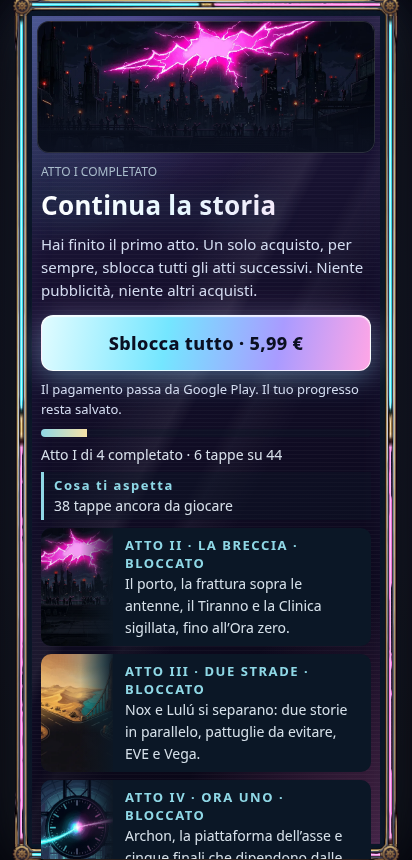
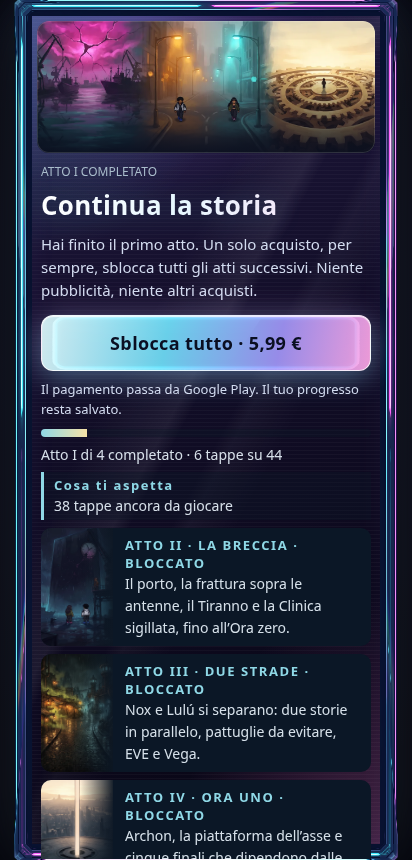
test(r57): add R57 asset integration tests, refresh evidence, and document D97

diff --git a/docs/gold/DECISIONI.md b/docs/gold/DECISIONI.md
@@ -116,3 +116,5 @@ Le tre scelte condizionali restano tracciate nel piano V10.2 e nella matrice; qu
 | D93 | Revisione R52 della release Play (ramo `fix/play-store-release-r51`, PR #22): tasto Indietro sulle schermate della storia, una sola lingua per gioco e shell, salvataggi per il ponte nativo, CI sul pacchetto vero, audio tutto a 48 kHz | Parole dell’autore (18 novembre 2026): «Applica le seguenti modifiche e applica miglioramenti sensati a tua scelta di qualità tripla A … NON unire la PR. NON toccare chiavi/keystore, applicationId (jaguarZcreatorZ13.app), versionCode, configurazione di firma.» [FATTO] (1) **Indietro** (`game/back-route.mjs`, `window.__chronosBack`): kit di Tessa, scelta, bussa e scelta della città non fanno nulla (sono scelte della storia, ma il tasto è «gestito», quindi niente pausa né «Tornare al telefono?»); «tieni premuto» annulla la pressione; l’apertura salta l’intro se il pulsante «salta» è visibile, altrimenti non fa nulla. (2) **Lingua**: una catena sola, impostazioni salvate → lingua scelta dalla shell (`ChronosNative.lang()`) → `navigator.language` → inglese; italiano solo per `it*`; il bootstrap non ricade più sull’italiano. (3) **Salvataggi**: `GET /__sync` con i dati nell’URL è sostituito da `NativeBridge` (`addJavascriptInterface`, tre metodi `@JavascriptInterface`, chiavi in allow-list, tetto 8 MiB per valore); il ripristino al riavvio riempie lo storage prima che il gioco lo legga. Tre test che vietavano `addJavascriptInterface` ora verificano «un solo ponte, niente Billing, niente file né rete»: è una modifica di regola dichiarata, non un aggiramento. (4) **CI** `android-smoke-build.yml` sul pacchetto `jaguarZcreatorZ13.app`. (5) **Audio**: 91 file Ogg Vorbis a 32 o 44,1 kHz portati a 48 kHz (`tools/resample_audio_r52.py`, soxr, stessi nome, formato e canali; qualità scelta in modo che il bitrate resti vicino); RMS entro 0,3 dB, loudness entro 0,3 dB sui pezzi da 3 s in su, ruggito −15,9 → −15,9 LUFS; durata dichiarata dal contenitore identica. I file si riscrivono sul posto, in contrasto con «mai riscritto sul posto» di `audio-originals`: come nel c4ac690 sono stati aggiornati `FILE_INVENTORY.json` (con `resampled_r52` e l’hash di prima) e i registri; i vecchi hash restano nei rapporti storici (`docs/evidence/v10.2`, `assets/production/v10.2`). **Limite dichiarato:** nessuna persona ha ascoltato i file ricampionati, il ponte Java non è stato provato su un WebView vero (solo con uno stub in Chromium e compilato con `build_apk.sh`), nessun telefono. `COMMERCIAL_RELEASE = BLOCKED`: playtest umani = 0. |
 | D94 | R53 sul ramo `fix/play-store-release-r51`, PR #22: coerenza di combattimento e narrativa (`ad4685b`), e ripristino del package di debug | Commit `ad4685b` (18 novembre 2026): typo e aggancio al pavimento dei percorsi stealth; `foeHitHalfW` e `blade_dash` sul tratto per i boss larghi; Sonic Nova a 190 px; allineamento di carica, guida, sonar e auto di gara; ritentativo del `sync` nativo; timer legati a `runId`; `driveCleared` passa da `afterCleared`; POV di `app_breach` su Nox; `hpBonus` accumulato; malus `eve_kept` sul finale; calibratore di Vega su «line» e «finale»; Ines nel codex dopo il contagio; pronomi, epilogo e battute IT/EN allineati. Approvazione dell’autore (19 novembre 2026): ripristinare l’`applicationId` di debug `com.cityadventure.pizzaprotocol.debug` come prima della PR, senza toccare l’identità Play, `tools/build_play_aab.sh`, la firma o le chiavi, e senza unire la PR. [FATTO] Il manifest di origine è di nuovo `com.cityadventure.pizzaprotocol.debug`; le classi Java restano in `jaguarZcreatorZ13.app` e l’activity è indicata col nome completo, così il build di debug compila e si avvia senza rinominare i sorgenti che l’AAB Play già usa. La CI di fumo e il verificatore di recupero avviano `com.cityadventure.pizzaprotocol.debug/jaguarZcreatorZ13.app.MainActivity`. L’identità Play resta quella forzata da `tools/build_play_aab.sh` (`jaguarZcreatorZ13.app`, `versionCode` 4, `versionName` 1.0.0, non `debuggable`). `COMMERCIAL_RELEASE = BLOCKED`: playtest umani = 0; ponte, Indietro e backup non provati su un telefono.
 | D95 | App gratuita accanto a quella a pagamento: Atto I libero, un solo acquisto in-app (`unlock_full_game`, 5,99 €) sblocca gli altri atti; l’app a pagamento resta com’è | Parole dell’autore (19 novembre 2026): «la facciamo, ti sto dicendo di clonarla, lasciare questa a pagamento e mettere quella gratuita, trovi il primo capitolo e poi gli altri a pagamento.» Scelte confermate: un solo acquisto sblocca tutti i capitoli, prezzo di sblocco 5,99 €, nuovo `applicationId` `jaguarZcreatorZ13.app.free`. **Limiti.** Non cambia l’app Play `jaguarZcreatorZ13.app` (5,99 €, `versionCode` 4, firma, `tools/build_play_aab.sh`). Per la regola 7 di `CLAUDE.md` («niente meccanismi F2P aggressivi») vale qui: un solo acquisto, per sempre, niente pubblicità, niente timer finti né scarsità finta, niente altri acquisti. «Capitolo» = **Atto** del gioco (Atto I libero; Atti II, III e IV bloccati). Il nome dell’app gratuita è lo stesso di quella a pagamento: nessuna scritta «Free» o «Gratis» nelle stringhe visibili (richiesta dell’autore, 19 novembre 2026). Il prezzo si imposta in Play Console, non nel codice. Dettagli in `docs/gold/STATO.md` (R54) e `docs/gold/PLAY.md`. |
+| D96 | Rifinitura dell’Atto I e della conversione nella variante gratuita (R56): primo sparo più rapido, buio progressivo in Blackout, canale unico per i messaggi, teaser e schermata di sblocco con arte | Fatto (R56, ramo `feat/act1-polish-r56` da `feat/free-variant-iap` `8d9cf0c`): l’apertura di `blackout` passa a barks radio in movimento (tempo al primo sparo modellato da 102,8 s a 86,6 s); schede tappa con posizione nell’atto (`Atto N · Tappa x di y`, IT/EN); buio di `blackout` che si dirada con i relè (0,66 → 0,14); color grade per atto; toast sotto il bark visibile; scossa deterministica a somma di seni con tetto (0 con `reduced`); nell’edizione gratuita l’ultima battuta di Veyra sulla guida lascia spazio al solo gancio della breccia, con arte sul teaser e pulsante di acquisto dentro la prima schermata (`tests/act1-polish-r56.test.mjs`, `tools/verify_act1_polish_r56.cjs`). |
+| D97 | Integrazione degli asset approvati R57 (`handoff/r57/`) sulla variante gratuita: 50 file grafici (A1–A9) e 15 file audio Ogg Vorbis 48 kHz cablati per tappa/hub, senza firmare né pubblicare | Mandato R57 (20 novembre 2026): integrare su `feat/assets-r57-free` (a partire dalla linea gratuita con R56 e `assets/r57-handoff`) i 50 asset grafici e i 15 file audio d’ambiente approvati da Loris in `handoff/r57/`. [FATTO] (1) **Grafica:** A1 `assets/source/store/store_feature_1024x500_notitle.png` fuori dal bundle; A2 `game/art/atti/teaser_breccia_9x16.webp` su `#teaser-art`; A3 `game/art/atti/unlock_hero_1200x540.webp` su `.store-hero`; A4 18 ritratti 512×512 in `game/art/v10/` con alias `'TESSA':'ptessa'` ed espressioni `tense`/`warm` automatiche per Nox, Lulú e Veyra; A5 3 livelli parallax strada (`road_layer_mid_a2`, `road_layer_near_a2`, `road_layer_mid_a3`) caricati solo nelle guide degli Atti II–III, disegnati sotto ostacoli/portali/auto e spenti con `settings.reduced`; A6 schede atto 16:9 (`atto_1.webp` pulito) e 9:16 (`atto_{1..4}_9x16.webp` in `@media (orientation: portrait)`), con scrim centrale rafforzato su `#card.a3`; A8 kit UI olografico (`frame_menu.webp` lossless + 9 PNG per pulsanti, barra salute e 6 icone comando); A9 8 sprite sheet `nox_*` e `lulu_*` con rim-light in `game/art/v05/`. (2) **Audio per tappa/hub:** 12 loop Ogg 48 kHz in `game/audio/chrono/` collegati per `step.id` (`STAGE_AMBIENCE`), `hub.id` (`HUB_AMBIENCE`), `playScene` (`home`, `app_port`, `app_archive`) e guida `escape` (`act1_escape_drive`), più 3 one-shot dell’Atto I (`act1_thunder_distant`, `act1_relay_spark`, `act1_crane_groan`); rimosso `ambience:'port'` da `FOOT.exp_chalk_marks` e azzerata l’ambience in `startCollapse()`. (3) **Misure e limiti:** `app.js` impacchettato **418 648 B** (< 458 752 B), 421 risorse locali, p95 < 16 ms su 20/20 scenari (`verify_performance_v09.cjs` `quick`; `tunnel` con parallax A5 a 1,4–2,0 ms a CPU 1× e 9,9 ms a CPU 4×). Nessuna modifica a `applicationId`, `versionCode`, firma o script di build; nessun AAB firmato prodotto qui; qualità all’ascolto su telefono reale non verificabile in headless (`COMMERCIAL_RELEASE = BLOCKED`). |

diff --git a/docs/gold/STATO.md b/docs/gold/STATO.md
@@ -1,3 +1,35 @@
+## R57 — Integrazione asset approvati: grafica (A1–A9) e audio d’ambiente per tappa (D97; 20 novembre 2026)
+
+- **Ramo e PR.** `feat/assets-r57-free`, basato sulla linea della variante gratuita (`feat/act1-polish-r56`, a sua volta da `feat/free-variant-iap` `8d9cf0c`) con merge di `assets/r57-handoff` (`bf83384`), aperto verso `ccr-022499ad-zq9iu5` (non unito, non firmato, non pubblicato).
+- **Variante gratuita intatta.** `applicationId` `jaguarZcreatorZ13.app.free` (`versionCode` 1), Atto I gratuito, un solo acquisto in-app `unlock_full_game` (5,99 €), nessuna stringa visibile con «Free» o «Gratis», nessuna modifica a chiavi, keystore, firma o script di build Play (`tools/build_play_aab.sh`, `tools/build_aab.sh`, `tools/build_free_aab.sh`).
+- **[FATTO] 50 asset grafici integrati (`handoff/r57/assets/graphics/`):**
+  - **A1 (Store Play):** `assets/source/store/store_feature_1024x500_notitle.png` (1024×500, senza testo, fuori dal bundle APK/AAB).
+  - **A2 (Teaser fine Atto I):** `game/art/atti/teaser_breccia_9x16.webp` (1080×1920) collegato a `#teaser-art` in `game/style.css`.
+  - **A3 (Hero schermata di sblocco):** `game/art/atti/unlock_hero_1200x540.webp` (1200×540) collegato a `.store-hero` in `game/style.css`; `#store-buy` resta nella prima schermata (`bottom: 370,6 px <= 860 px`).
+  - **A4 (18 ritratti 512×512 in `game/art/v10/`):** `portrait_nox_{neutral,tense,warm}.png`, `portrait_lulu_{neutral,tense,warm}.png`, `portrait_veyra.png`, `portrait_veyra_{tense,warm}.png`, `portrait_kairn.png`, `portrait_morrow.png`, `portrait_{rook,eve,vega,mira,tessa,dario,ines}_neutral.png`. Collegati in `game/style.css` (`.portrait.p0`, `.p1`, `.p2`, `.pveyra`, `.prook`, `.pvega`, `.pkairn`, `.pmorrow`, `.pmira`, `.ptessa`, `.pdario`, `.pines`, varianti `-tense`/`-warm`, `#opening-nox`, `#opening-lulu`) e in `game/runtime.mjs` (`PORTRAIT_ALIAS` con `'TESSA':'ptessa'` e `portraitMood` automatico `tense`/`warm` per Nox, Lulú e Veyra).
+  - **A5 (3 livelli parallax strada in `game/art/v10/`):** `road_layer_mid_a2.png`, `road_layer_near_a2.png` (Atto II) e `road_layer_mid_a3.png` (Atto III). Caricati solo nelle tappe `drive` degli Atti II–III in `startDrive()`, disegnati in `drawDriving()` sopra l’asfalto e sotto ostacoli/portali/auto (`.6 * d.distance` e `1.4 * d.distance`), disattivati con `settings.reduced`.
+  - **A6 (8 schede atto in `game/art/atti/`):** `atto_1.webp` (16:9 pulito senza simbolo nell’angolo) + `atto_{1,2,3,4}_9x16.webp` (1080×1920 per `@media (orientation: portrait)` su `#card.a1..a4`; `atto_2..4.webp` 16:9 mantenuti per `@media (orientation: landscape)` e ` .store-act-art`). Scrim centrale di `#card.a3` rafforzato (`#04070cf5 0, #04070cde 52%, #04070c99 100%`) per garantire contrasto ≥ 4,5:1 sopra il bagliore ciano centrale.
+  - **A8 (10 file UI kit olografico in `game/art/ui/`):** `frame_menu.webp` (derivato lossless 512×512 da `a8_frame_holographic_512.png`), `button_primary.png`, `button_secondary.png`, `healthbar_shell.png`, `icon_{shoot,dodge,pulse,duo,heal,bag}.png` collegati in `game/style.css` con testi e badge HTML sopra l’arte.
+  - **A9 (8 sprite sheet rim-light in `game/art/v05/`):** `nox_{walk,gun,actions,magic}.png` e `lulu_{walk,gun,actions,magic}.png` (stesse dimensioni e griglie di `sheet-layout.mjs`, zero modifiche al codice di animazione).
+- **[FATTO] 15 file audio Ogg Vorbis 48 kHz integrati per tappa/hub (`game/audio/chrono/`):**
+  - **12 loop d’ambiente (`STAGE_AMBIENCE` e `HUB_AMBIENCE` in `game/runtime.mjs`):** `act1_blackout_cantiere` (`blackout`, `yard`), `act1_docks_veyra` (`docks_veyra`, hub `ash_docks`), `act1_moon_refuge` (scena `home`, hub `moon`), `act1_escape_drive` (guida `escape`), `act2_clinic_contagion` (`app_clinic`, `contagion`, hub `clinic_ward`), `act2_port_antenne` (scena `app_port`, `port`, hub `antenna_port`), `act2_cathedral_quarter` (`zero`, hub `cathedral`), `act3_forge` (`below`, `forge`), `act3_toxic_bazaar` (`toxic_mid`, hub `toxic`), `act3_eve_archive` (scena `app_archive`, `archive`, hub `deep_archive`), `act3_vega_sky_rail` (`vega`, hub `sky_rail`), `act4_axis_wind` (`app_axis`, `ascent`, `finale`, hub `axis_crown`).
+  - **3 one-shot Atto I (`ACT1_ONESHOTS`):** `act1_thunder_distant` (`blackout`, `yard`), `act1_relay_spark` (`blackout`), `act1_crane_groan` (`docks_veyra`, hub `ash_docks`).
+  - **Pulizia:** rimosso `ambience:'port'` da `FOOT.exp_chalk_marks` in `game/missions.mjs` (usa il default per kind: `chrono_port_rain`); aggiunto `audioDirector.setAmbience(null)` in `startCollapse()` prima del cambio di modalità.
+- **[FATTO] Bundler Android e allowlist WebView (`tools/prepare_android_assets.py`, `AssetRoutes.java`).** Tutte le nuove risorse copiate con nomi univoci dopo il flatten e autorizzate in `AssetRoutes.java`.
+- **[MISURATO] Prove e dimensioni:**
+  - `python3 tools/prepare_android_assets.py`: `index.html` **18 555 B**, `app.js` **418 648 B** (sotto la guardia di 458 752 B e il limite di 524 288 B, margine **40 104 B**), `world.js` **267 009 B**, `en.js` **204 236 B**, **421 risorse locali**.
+  - Test unitari: `tests/assets-r57.test.mjs` (5 subtest dedicati R57), `tests/act1-polish-r56.test.mjs` (9/9), `tests/free-variant-r55.test.mjs` (16/16), `tests/argon-giro3.test.mjs`, `tests/argon-ui.test.mjs`, `tests/bundle-weight.test.mjs`, `tests/fault-guards.test.mjs`: tutti **PASS** (655/657 nella suite completa; i soli 2 test non eseguiti nel container locale sono i 2 sottotest Python `PIL`/`numpy` di `tests/tooling-syntax.test.mjs`). `npm run lint` PASS.
+  - Verifiche browser Playwright (`tools/verify_act1_polish_r56.cjs` 10/10 PASS, `tools/verify_free_variant_r55.cjs` 18/18 PASS, verifica R57 412×860 verticale e 860×412 orizzontale PASS, 0 errori console, 0 richieste 404).
+  - Prestazioni (`tools/verify_performance_v09.cjs` `quick`, 20 scenari su 4 risoluzioni): **20/20 PASS** con p95 < 16 ms (`below` 4,8–6,9 ms, `archive` 3,4–5,9 ms, `ascent` 2,0–2,8 ms, `finale` 2,1–5,6 ms, `tunnel` con parallax A5 1,4–2,0 ms a CPU 1× e 9,9 ms a CPU 4×).
+- **Piano di porting sull’app a pagamento (`jaguarZcreatorZ13.app`):** cherry-pick dei commit R57 (stessi path sotto `game/`, `tools/prepare_android_assets.py`, `AssetRoutes.java`, `tests/`) sul ramo dell’edizione a pagamento senza toccare `applicationId`, `versionCode` 4, `tools/build_play_aab.sh` né i file di billing.
+- **Limiti.** Nessun AAB/APK firmato prodotto qui (la build firmata è riservata a Folly); qualità e bilanciamento all’ascolto dei 15 nuovi Ogg su altoparlanti/cuffie di un telefono reale non verificabili in ambiente headless; playtest umani registrati: 0 (`COMMERCIAL_RELEASE = BLOCKED`).
+
+## R56 — Rifinitura Atto I, ritmo, buio progressivo in Blackout, teaser e schermata di sblocco con arte (D96; 19–20 novembre 2026)
+
+- **Ramo.** `feat/act1-polish-r56` (da `feat/free-variant-iap` `8d9cf0c`).
+- **[FATTO] Ritmo e leggibilità Atto I (`game/runtime.mjs`, `game/style.css`, `game/visuals.mjs`).** Apertura di `blackout` passata a radio barks durante il gioco invece di dialogo bloccante (tempo al primo sparo modellato da 102,8 s a 86,6 s); schede tappa più rapide con indicazione `Atto N · Tappa x di y` (IT/EN); buio progressivo in `blackout` (da 0,66 a 0/3 relè fino a 0,14 a 3/3 relè con pozze di luce calda); color grade per atto; canale unico tra bark e toast (`#notice` sotto `#bark`); scossa schermo deterministica a somma di seni con tetto (0 con `reduced`); linee di velocità e scintille nella guida; teaser e schermata di sblocco con arte e pulsante di acquisto nella prima schermata.
+- **[MISURATO] Prove.** `tests/act1-polish-r56.test.mjs` (9/9 PASS), `tools/verify_act1_polish_r56.cjs` (10/10 PASS), rapporto e confronti prima/dopo in `docs/evidence/r56/`.
+
 ## R55 — App gratuita con un solo acquisto in-app (D95; 19 novembre 2026)
 
 - **Ramo e PR.** `feat/free-variant-iap`, aperta verso `ccr-022499ad-zq9iu5` (non unita). Parte da `fix/play-store-release-r51` (PR #22, `e684a1a`), perché quella PR non è ancora nel ramo di lavoro e contiene le correzioni al manifest. Quando la PR #22 verrà unita, questo ramo si ribasa senza conflitti di rilievo.
